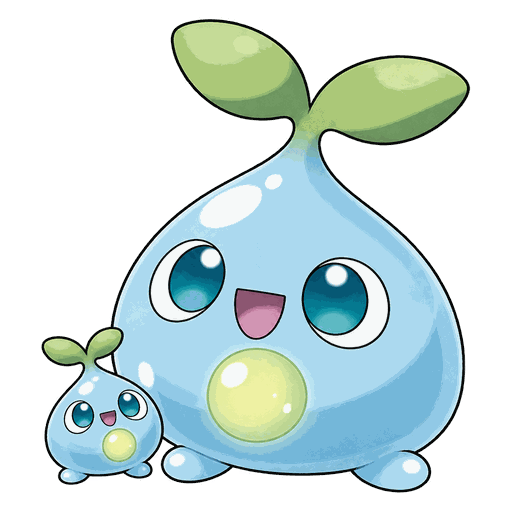
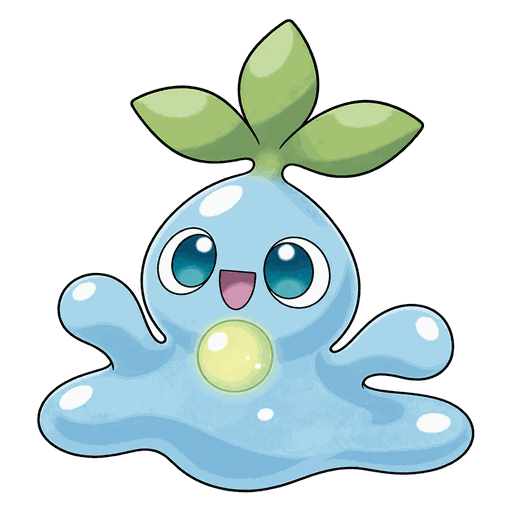
아레나 로비를 골드버전 창 구조로(상태창·소환수창·▶ 세로 메뉴), 이모지 아이콘 전부 글자 배지로, 그림자와 이름 분리. 슬라임 2·3, 늑대 2·3, 천사 3단계 교체. 시작화면 23종족

diff --git a/battle.html b/battle.html
@@ -449,51 +449,52 @@ button{font-family:inherit;cursor:pointer}
 .fl{z-index:9}
 @media (min-width:600px){.esprite{width:30%;right:8%}.msprite{width:34%;left:8%}.ebox{width:40%}.mbox{width:42%}}
 
+@font-face{font-family:"DungGeunMo";src:url("https://cdn.jsdelivr.net/gh/projectnoonnu/noonfonts_six@1.2/DungGeunMo.woff") format("woff");font-display:swap}
 /* ===== 골드 버전 스킨: 크림 배경, 두 줄 검은 테두리 창, 픽셀 글꼴, ▶ 커서 ===== */
 :root{--G-bg:#f8f6e6;--G-ink:#202020;--G-ink2:#585858;--G-line:#202020;--G-hp:#48c848;--G-hp2:#f8d048;--G-hp3:#f04838;--G-tg:#3870f0;--G-sel:#fff2a8}
 html,body{background:var(--G-bg)}
-body{font-family:"Apple SD Gothic Neo","Pretendard","Noto Sans KR",system-ui,sans-serif;color:var(--G-ink);-webkit-font-smoothing:antialiased;font-weight:700}
+body{font-family:"DungGeunMo","Apple SD Gothic Neo",sans-serif;color:var(--G-ink);-webkit-font-smoothing:antialiased;font-weight:400;font-size:16px}
 .scene,.scene::before{background:none!important}
 .bg-lobby,.bg-arena,.bg-dungeon{background:var(--G-bg)!important}
 #lobby,#fight{background:var(--G-bg)}
 .win,.frame,.vsbox,.roster,.ebox,.mbox,.tbox,.menu button,.gb,.tab,.bbar .ib,.chip,.ltabs button,.rw,.pt,.tip,.result .frame,.ctl button,.modes button,.detail .frame,.sk{border-radius:0!important;box-shadow:none!important;backdrop-filter:none!important;text-shadow:none!important}
 .gsc-win{background:#fff;border:3px solid var(--G-line);outline:2px solid #fff;outline-offset:-7px;box-shadow:inset 0 0 0 2px #fff,inset 0 0 0 4px var(--G-line)!important}
-/* 로비 */
-.hud{padding:8px 8px 0;flex-direction:column;gap:6px;align-items:stretch}
-.tabs{gap:6px}
-.tab{flex:1;height:auto;padding:8px 0;border:3px solid var(--G-line);background:#fff;color:var(--G-ink);font-size:16px;justify-content:center;font-weight:400}
-.tab.on{background:var(--G-ink);color:#fff;border-color:var(--G-ink)}
-.me{text-align:left;background:#fff;border:3px solid var(--G-line);padding:8px 10px;font-size:14px;color:var(--G-ink);display:flex;justify-content:space-between;align-items:center;flex-wrap:wrap;gap:4px 12px}
-.me b{color:var(--G-ink);font-size:16px;font-weight:400}
-.me .ro{gap:8px;font-weight:400}
-.timer{position:absolute;left:8px;right:8px;top:124px;text-align:center;font-size:13px;color:var(--G-ink2);text-shadow:none;background:none}
-.stage{bottom:auto;top:150px;height:200px;left:8px;right:8px;background:#fff;border:3px solid var(--G-line);padding:10px 6% 28px;align-items:flex-end;justify-content:center;gap:4%;margin:0}
-.stage::after{content:"";position:absolute;left:8%;right:8%;bottom:14px;height:14px;border-radius:50%;background:#d8d4c0;z-index:0}
-.stage .u{z-index:1;width:30%;max-width:160px}
-.stage .u:only-of-type{width:46%}
+/* 로비: 골드버전식 창 세 개로 화면을 채움 */
+#lobby{background:var(--G-bg) repeating-linear-gradient(0deg,transparent 0 7px,rgba(0,0,0,.035) 7px 8px),repeating-linear-gradient(90deg,transparent 0 7px,rgba(0,0,0,.035) 7px 8px)!important;display:flex;flex-direction:column;gap:8px;padding:8px;padding-top:max(8px,env(safe-area-inset-top));padding-bottom:max(8px,env(safe-area-inset-bottom))}
+.gwin{background:#fff;border:4px solid var(--G-line);box-shadow:inset 0 0 0 2px #fff,inset 0 0 0 4px var(--G-line)!important;border-radius:4px!important}
+.hud{position:static;padding:0;flex-direction:column;gap:8px;align-items:stretch;flex:none}
+.tabs{gap:8px}
+.tab{flex:1;height:auto;padding:10px 0;border:4px solid var(--G-line);background:#fff;color:var(--G-ink);font-size:18px;justify-content:center;font-weight:400;border-radius:4px!important;box-shadow:inset 0 0 0 2px #fff,inset 0 0 0 4px var(--G-line)!important}
+.tab.on{background:var(--G-ink);color:#fff;box-shadow:inset 0 0 0 2px var(--G-ink),inset 0 0 0 4px #fff!important}
+.me{text-align:left;background:#fff;border:4px solid var(--G-line);box-shadow:inset 0 0 0 2px #fff,inset 0 0 0 4px var(--G-line)!important;border-radius:4px!important;padding:12px 14px;font-size:16px;color:var(--G-ink);display:grid;grid-template-columns:1fr auto;gap:6px 12px;line-height:1.3}
+.me b{color:var(--G-ink);font-size:18px;font-weight:400;grid-row:1/3}
+.me .ro{gap:14px;font-weight:400;justify-content:flex-end}
+.timer{position:static;text-align:center;font-size:15px;color:var(--G-ink2);text-shadow:none;background:none;flex:none;padding:0}
+.stage{position:relative;top:auto;bottom:auto;left:auto;right:auto;height:auto;flex:1;min-height:200px;background:#fff;border:4px solid var(--G-line);box-shadow:inset 0 0 0 2px #fff,inset 0 0 0 4px var(--G-line)!important;border-radius:4px!important;padding:14px 6% 56px;align-items:flex-end;justify-content:center;gap:4%;margin:0}
+.stage::after{content:"";position:absolute;left:8%;right:8%;bottom:46px;height:16px;border-radius:50%;background:#d8d4c0;z-index:0}
+.stage .u{z-index:1;width:30%;max-width:170px}
+.stage .u:only-of-type{width:48%}
 .stage .u img,.stage .u svg{filter:none}
-.stage .u .nm{color:var(--G-ink);text-shadow:none;font-weight:400;font-size:13px;bottom:-22px}
-.stage .u.empty{border:2px dashed #b8b4a0;color:#888;border-radius:0}
-.stage .lead{background:var(--G-ink);color:#fff;border:none;font-weight:400;letter-spacing:0;left:50%;transform:translateX(-50%);bottom:-6px;padding:2px 10px;font-size:12px}
-.sidebtn{position:absolute;left:8px;right:8px;top:372px;bottom:auto;width:auto;max-width:none;flex-direction:row;gap:6px}
-.sidebtn .gb,.gb,.gb.orange,.gb.green,.gb.wood,.gb:not(.wood):not(.green),#start,#cancel,#r_ok,#r_next,.rw .gb{background:#fff;color:var(--G-ink);border:3px solid var(--G-line);font-weight:400;font-size:17px;padding:12px 8px}
-.sidebtn .gb{flex:1;font-size:18px;padding:14px 6px}
-.gb.orange,#start,#r_ok,#r_next,.rw .gb{background:var(--G-ink);color:#fff}
-.gb:active{transform:none;background:var(--G-sel);color:var(--G-ink)}
-.gb .badge{background:var(--G-ink);border:2px solid #fff;font-family:inherit}
-.bbar{left:8px;right:8px;bottom:8px;padding:0;gap:6px;justify-content:space-between}
-.bbar .ib,.bbar .ib.back{flex:1;height:60px;background:#fff;border:3px solid var(--G-line);color:var(--G-ink);font-weight:400;font-size:13px}
-.bbar .ib i{font-size:20px}
+.stage .u .nm{color:var(--G-ink);text-shadow:none;font-weight:400;font-size:15px;bottom:-34px}
+.stage .u.empty{border:2px dashed #b8b4a0;color:#888;border-radius:0;font-size:15px}
+.stage .lead{background:var(--G-ink);color:#fff;border:none;font-weight:400;letter-spacing:0;left:auto;right:10px;top:10px;bottom:auto;transform:none;padding:3px 12px;font-size:14px;border-radius:0}
+.gmenu{flex:none;background:#fff;border:4px solid var(--G-line);box-shadow:inset 0 0 0 2px #fff,inset 0 0 0 4px var(--G-line)!important;border-radius:4px!important;padding:10px 8px;display:grid;grid-template-columns:1fr 1fr;gap:4px 8px}
+.gmenu .gb,.gmenu .ib{position:relative;display:flex;align-items:center;justify-content:flex-start;background:none!important;border:none!important;color:var(--G-ink)!important;font-size:20px;font-weight:400;padding:10px 10px 10px 30px;text-decoration:none;text-align:left;box-shadow:none!important;height:auto;width:auto;line-height:1.2}
+.gmenu .gb::before,.gmenu .ib::before{content:"▶";position:absolute;left:8px;top:50%;transform:translateY(-50%);opacity:0;font-size:16px}
+.gmenu .gb:active,.gmenu .ib:active{background:var(--G-sel)!important}
+.gmenu .gb:active::before,.gmenu .ib:active::before,.gmenu #btn_go::before{opacity:1}
+.gmenu .gb .badge{position:static;margin-left:8px;background:var(--G-ink);color:#fff;border:none;font-size:13px;min-width:22px;height:22px;border-radius:0}
+.sidebtn,.bbar{display:none}
 /* 창(모달) */
 .modal{background:rgba(32,32,32,.35);padding:8px;align-items:stretch}
 .frame,.modal .frame,.detail .frame,.result .frame{background:#fff;border:3px solid var(--G-line);outline:none;color:var(--G-ink);max-width:none;height:100%;border-radius:0}
 .frame .ttl{color:var(--G-ink);font-weight:400;font-size:18px;padding:12px 14px 0}
 .frame .x{background:#fff;border:3px solid var(--G-line);color:var(--G-ink);width:36px;height:36px;font-size:16px;top:8px;right:8px}
 .ltabs{flex-direction:row;gap:4px}
-.ltabs button{flex:1;background:#fff;border:3px solid var(--G-line);color:var(--G-ink);font-weight:400;font-size:14px;padding:8px 2px;text-align:center}
+.ltabs button{flex:1;background:#fff;border:3px solid var(--G-line);color:var(--G-ink);font-weight:400;font-size:15px;padding:9px 2px;text-align:center}
 .ltabs button.on{background:var(--G-ink);color:#fff}
 .ltabs .badge{background:var(--G-ink);border:2px solid #fff;top:-6px;right:-4px}
-.lhead .chip{background:#fff;border:3px solid var(--G-line);color:var(--G-ink);font-weight:400;font-size:13px;padding:6px 10px;white-space:nowrap;width:auto}
+.lhead .chip{background:#fff;border:3px solid var(--G-line);color:var(--G-ink);font-weight:400;font-size:15px;padding:6px 10px;white-space:nowrap;width:auto}
 .chip.btn:not(:disabled){background:var(--G-ink);color:#fff;border-color:var(--G-ink)}
 .chip.btn:disabled{background:#fff;color:#999;border-color:#999}
 .rows{gap:6px}
@@ -503,27 +504,27 @@ body{font-family:"Apple SD Gothic Neo","Pretendard","Noto Sans KR",system-ui,san
 .rw .av .st{background:var(--G-ink);color:#fff;border:none;border-radius:0;font-family:inherit;font-weight:400}
 .rw .inf b{font-weight:400;font-size:16px}
 .rw .inf b::before{content:"▶ ";color:var(--G-ink)}
-.rw .inf small,.rw .pw small,.rw .rec{color:var(--G-ink2);font-weight:400}
+.rw .inf small,.rw .pw small,.rw .rec{color:var(--G-ink2);font-weight:400;font-size:14px}
 .rw .pw{font-weight:400;font-size:15px}
 .rw .gb{padding:10px 10px;font-size:14px;min-width:70px}
 .rw .won{background:#fff;border:3px solid #a8a498;color:#888;font-weight:400;font-size:14px;border-radius:0}
 /* 대전 준비 */
 .setup{background:var(--G-bg);color:var(--G-ink);padding:8px;gap:8px}
-.setup .top{color:var(--G-ink2);font-size:14px}.setup .top b{color:var(--G-ink);font-weight:400;font-size:18px}
+.setup .top{color:var(--G-ink2);font-size:15px}.setup .top b{color:var(--G-ink);font-weight:400;font-size:18px}
 .vsbox,.roster{background:#fff;border:3px solid var(--G-line)}
 .vsbox{padding:10px}
 .vsbox .vs{color:var(--G-ink);font-size:16px;opacity:1}
-.vsbox .side .lab,.vsbox .side .lab.me,.vsbox .side .lab.op{color:var(--G-ink);font-weight:400;font-size:13px}
+.vsbox .side .lab,.vsbox .side .lab.me,.vsbox .side .lab.op{color:var(--G-ink);font-weight:400;font-size:15px}
 .pt,.pt.op,.roster .pt{background:var(--G-bg);border:3px solid var(--G-line)}
 .pt.empty{background:#fff;border:2px dashed #b8b4a0;color:#999}
-.pt .stars{color:#fff;background:var(--G-ink);font-size:9px;text-shadow:none;letter-spacing:0;left:0;top:0;padding:1px 4px;z-index:1}
-.pt .st{color:#fff;background:var(--G-ink);text-shadow:none;padding:0 4px;right:0;bottom:0;font-size:11px;font-weight:400}
+.pt .stars{color:#fff;background:var(--G-ink);font-size:12px;text-shadow:none;letter-spacing:0;left:0;top:0;padding:1px 4px;z-index:1}
+.pt .st{color:#fff;background:var(--G-ink);text-shadow:none;padding:0 5px;right:0;bottom:0;font-size:13px;font-weight:400}
 .pt .ld{background:var(--G-ink);color:#fff;font-weight:400}
-.pt .el{border-radius:0;background:#fff;border:2px solid var(--G-line)}
+.pt .el{border-radius:0;background:#fff;border:2px solid var(--G-line);width:auto;height:auto;padding:0 4px;font-size:12px;left:0;bottom:0}
 .roster .pt.on{border-color:var(--G-ink);background:var(--G-sel)}
 .roster .pt.on::after{content:"▶";font-size:22px;color:var(--G-ink);background:none;align-items:flex-start;justify-content:flex-start;padding:2px 4px}
 .roster .pt .i{background:var(--G-ink);border:none;border-radius:0;font-family:inherit}
-.modes button{background:#fff;border:3px solid var(--G-line);color:var(--G-ink2);font-weight:400;font-size:13px}
+.modes button{background:#fff;border:3px solid var(--G-line);color:var(--G-ink2);font-weight:400;font-size:15px}
 .modes button.on{background:var(--G-ink);color:#fff}
 .setup .acts .gb{font-size:17px;padding:14px 8px}
 /* 상세·팁 */
@@ -536,7 +537,7 @@ body{font-family:"Apple SD Gothic Neo","Pretendard","Noto Sans KR",system-ui,san
 .sk.fire,.sk.water,.sk.earth,.sk.wind,.sk.light,.sk.dark{border-width:3px;border-color:var(--G-line);background:#fff}
 .sk.on{box-shadow:none!important;background:var(--G-sel)}
 .sk .t{color:var(--G-ink);opacity:1;font-weight:400}
-.tip{background:#fff;color:var(--G-ink);border:3px solid var(--G-line);font-size:14px;line-height:1.6}
+.tip{background:#fff;color:var(--G-ink);border:3px solid var(--G-line);font-size:15px;line-height:1.6}
 .tip b{color:var(--G-ink);font-weight:400;font-size:16px;text-align:left}
 .tip .cd{color:var(--G-ink2)}
 /* 전투 */
@@ -549,13 +550,13 @@ body{font-family:"Apple SD Gothic Neo","Pretendard","Noto Sans KR",system-ui,san
 .ebox{left:8px;top:10px;width:58%}
 .mbox{right:8px;bottom:10px;width:64%}
 .ebox b,.mbox b{font-weight:400;font-size:17px;color:var(--G-ink)}
-.ebox span,.mbox span{font-weight:700;font-size:12px;color:var(--G-ink2)}
-.hpbar,.gauge{position:relative;height:10px;border:2px solid var(--G-line);border-radius:0;background:#fff;margin-top:8px;margin-left:38px;overflow:visible}
-.hpbar em,.gauge em{position:absolute;left:-36px;top:-5px;font-style:normal;font-size:11px;font-weight:800;color:var(--G-ink);width:32px;text-align:right;line-height:1}
+.ebox span,.mbox span{font-weight:400;font-size:14px;color:var(--G-ink2)}
+.hpbar,.gauge{position:relative;height:10px;border:2px solid var(--G-line);border-radius:0;background:#fff;margin-top:8px;margin-left:42px;overflow:visible}
+.hpbar em,.gauge em{position:absolute;left:-40px;top:-5px;font-style:normal;font-size:14px;font-weight:400;color:var(--G-ink);width:36px;text-align:right;line-height:1}
 .hpbar i{background:var(--G-hp);transition:width .3s}.hpbar i.mid{background:var(--G-hp2)}.hpbar i.low{background:var(--G-hp3)}
 .gauge{height:7px;margin-top:8px}.gauge i{display:block;height:100%;width:0;background:var(--G-tg);transition:width .18s}
-.mbox .hpn{color:var(--G-ink);font-weight:400;font-size:13px;margin-top:2px}
-.ebox .effs span,.mbox .effs span,.ebox .effs span.good,.mbox .effs span.good{border-radius:0;background:#fff;border:2px solid var(--G-line);color:var(--G-ink);font-weight:400;font-size:10px;padding:0 4px}
+.mbox .hpn{color:var(--G-ink);font-weight:400;font-size:14px;margin-top:2px}
+.ebox .effs span,.mbox .effs span,.ebox .effs span.good,.mbox .effs span.good{border-radius:0;background:#fff;border:2px solid var(--G-line);color:var(--G-ink);font-weight:400;font-size:13px;padding:0 5px}
 .eteam{left:8px;top:calc(10px + 96px)}
 .mteam{right:8px;bottom:calc(8px + 120px)}
 .chip{width:44px;border:3px solid var(--G-line);background:#fff;padding:1px;border-radius:0}
@@ -563,7 +564,7 @@ body{font-family:"Apple SD Gothic Neo","Pretendard","Noto Sans KR",system-ui,san
 .chip .tg{height:3px;margin-bottom:1px}.chip .tg i{display:block;height:100%;background:var(--G-tg)}
 .chip .hp i{background:var(--G-hp)}.chip .hp i.mid{background:var(--G-hp2)}.chip .hp i.low{background:var(--G-hp3)}
 .chip.on{box-shadow:none!important;background:var(--G-sel)}
-.chip .arrow{color:var(--G-ink);font-size:14px;top:-18px}
+.chip .arrow{color:var(--G-ink);font-size:16px;top:-20px}
 .tbox{height:auto;min-height:150px;background:#fff;border-top:none;margin:0 6px 6px;border:4px double var(--G-line);outline:3px solid var(--G-line);outline-offset:-3px;padding:14px 16px}
 .tbox:has(.menu:not(.hidden)) .msg{display:none}
 .tbox:has(.menu:not(.hidden)) .msg::after{display:none}
@@ -576,15 +577,15 @@ body{font-family:"Apple SD Gothic Neo","Pretendard","Noto Sans KR",system-ui,san
 .menu button::before{content:"▶ ";opacity:0}
 .menu button.pri{background:#fff;color:var(--G-ink)}.menu button.pri::before{opacity:1}
 .menu button:active{background:var(--G-sel)}
-.menu button small{font-weight:700;color:var(--G-ink2);font-size:12px}.menu button.pri small{color:var(--G-ink2)}
+.menu button small{font-weight:400;color:var(--G-ink2);font-size:14px}.menu button.pri small{color:var(--G-ink2)}
 .menu button small .el{border-radius:0;background:#fff;border:1px solid var(--G-line);color:var(--G-ink)}
 .menu button.back{border-style:solid;font-size:14px}
-.gsc .ctl button{border:3px solid var(--G-line);border-radius:0;background:#fff;color:var(--G-ink);font-weight:400;font-size:12px;width:42px;height:34px}
+.gsc .ctl button{border:3px solid var(--G-line);border-radius:0;background:#fff;color:var(--G-ink);font-weight:400;font-size:14px;width:46px;height:36px}
 .gsc .ctl button.on{background:var(--G-ink);color:#fff}
 .fl{font-family:inherit;font-weight:400;font-size:26px;color:#d02818;text-shadow:2px 2px 0 #fff,-2px -2px 0 #fff,2px -2px 0 #fff,-2px 2px 0 #fff}
 .fl.heal{color:#288828;text-shadow:2px 2px 0 #fff,-2px -2px 0 #fff,2px -2px 0 #fff,-2px 2px 0 #fff}
 .fl.miss{color:var(--G-ink2);font-size:18px}.fl.eff{color:var(--G-ink);font-size:14px}
-.log{background:#fff;border:3px solid var(--G-line);color:var(--G-ink);border-radius:0;top:118px;font-size:12px}
+.log{background:#fff;border:3px solid var(--G-line);color:var(--G-ink);border-radius:0;top:118px;font-size:14px}
 .log .l b{color:var(--G-ink)}.log .dmg{color:#d02818}.log .heal{color:#288828}.log .r{color:var(--G-ink2)}
 /* 결과 */
 .result{background:rgba(32,32,32,.35)}
@@ -603,20 +604,18 @@ body{font-family:"Apple SD Gothic Neo","Pretendard","Noto Sans KR",system-ui,san
 <!-- 로비 -->
 <div id="lobby" class="scene bg-lobby">
   <div class="hud">
-    <div class="tabs"><a class="tab" id="tab_a" href="battle.html">⚔ 아레나</a><a class="tab" id="tab_d" href="battle.html?mode=dungeon">🏰 던전</a></div>
-    <div class="me"><b id="me_nick">소환사</b><div class="ro"><span>⚔ <span id="me_pw">0</span></span><span>🏆 <span id="me_win">0</span></span></div><div class="ro" id="atk_row"><span>입장권 <span id="atk_n">10</span>/10</span><span id="atk_t" style="font-weight:600;opacity:.75"></span></div></div>
+    <div class="tabs"><a class="tab" id="tab_a" href="battle.html">아레나</a><a class="tab" id="tab_d" href="battle.html?mode=dungeon">던전</a></div>
+    <div class="me"><b id="me_nick">소환사</b><div class="ro"><span>전투력 <span id="me_pw">0</span></span><span>승리 <span id="me_win">0</span></span></div><div class="ro" id="atk_row"><span>입장권 <span id="atk_n">10</span>/10</span><span id="atk_t" style="font-weight:600;opacity:.75"></span></div></div>
   </div>
   <div class="timer" id="lobby_timer"></div>
   <div class="stage" id="stage"></div>
-  <div class="sidebtn">
+  <div class="gmenu">
     <button class="gb orange" id="btn_go">대전하기</button>
     <button class="gb green" id="btn_rival">라이벌<span class="badge" id="rival_n">0</span></button>
-  </div>
-  <div class="bbar">
-    <button class="ib" id="bb_def"><i>🛡</i>방어</button>
-    <button class="ib" id="bb_rec"><i>📜</i>전투기록</button>
-    <button class="ib" id="bb_info"><i>🏆</i>정보</button>
-    <a class="ib back" href="index.html"><i>↩</i>뒤로가기</a>
+    <button class="ib" id="bb_def">방어덱</button>
+    <button class="ib" id="bb_rec">전투 기록</button>
+    <button class="ib" id="bb_info">정보</button>
+    <a class="ib back" href="index.html">나가기</a>
   </div>
 </div>
 
@@ -682,7 +681,7 @@ body{font-family:"Apple SD Gothic Neo","Pretendard","Noto Sans KR",system-ui,san
       <div class="msprite" id="m_sp"></div>
       <div class="mteam" id="m_team"></div>
       <div class="mbox" id="mbox"><div class="nm"><b id="m_nm"></b><span id="m_lv"></span></div><div class="hpbar"><em>HP</em><i id="m_hp"></i></div><div class="hpn" id="m_hpn"></div><div class="gauge"><em>행동</em><i id="m_tg"></i></div><div class="effs" id="m_eff"></div></div>
-      <div class="ctl"><button id="c_log">📜</button><button id="c_spd">×1</button><button id="c_auto">자동</button></div>
+      <div class="ctl"><button id="c_log">기록</button><button id="c_spd">×1</button><button id="c_auto">자동</button></div>
     </div>
     <div class="tbox"><div class="msg" id="cap"></div><div class="menu hidden" id="menu"></div></div>
   </div>
@@ -865,7 +864,7 @@ function askPlayer(att,enemies){
    menu.className="menu";
    const cell=(k,name,sub,ok)=>`<button data-k="${k}" class="${ok?"":"cd"}"><span>${name}</span><small>${sub}</small></button>`;
    menu.innerHTML=cell("basic","일반공격",`<span class="el">물리</span>데미지 ${dmgOf(null)}`,true)+
-    ready.map(({s,ok},i)=>cell("s"+i,s.n,`<span class="el">${s.e&&ELEM[s.e]?ELEM[s.e].ic+ELEM[s.e].n:EFF[s.e]?EFF[s.e][0]:skillKind(s.t)}</span>${ok?(s.t==="hit"?"데미지 "+dmgOf(s):skillKind(s.t)):"쿨타임 "+s.cd+"턴"}`,ok)).join("")+
+    ready.map(({s,ok},i)=>cell("s"+i,s.n,`<span class="el">${s.e&&ELEM[s.e]?ELEM[s.e].n:EFF[s.e]?EFF[s.e][0]:skillKind(s.t)}</span>${ok?(s.t==="hit"?"데미지 "+dmgOf(s):skillKind(s.t)):"쿨타임 "+s.cd+"턴"}`,ok)).join("")+
     `<button class="back" data-k="back">◀ 뒤로</button>`;
    menu.querySelectorAll("button").forEach(b=>{const k=b.dataset.k; let t;
     if(k==="back"){b.onclick=main;return}
@@ -883,7 +882,7 @@ function askPlayer(att,enemies){
   };
   const targets=()=>{
    menu.className="menu list";
-   menu.innerHTML=alive(enemies).map(e=>`<button data-i="${ALL.indexOf(e)}" class="${e===TARGET?"pri":""}"><span>${e.name}</span><small>${ELEM[e.elem].ic}${ELEM[e.elem].n} · ${POW[e.pow][1]} · 체력 ${e.hp}/${e.maxhp}${(traitAdv(att,e)+elemAdv(att.elem,e.elem))?` · 상성 ${(traitAdv(att,e)+elemAdv(att.elem,e.elem))>0?"+":""}${traitAdv(att,e)+elemAdv(att.elem,e.elem)}%`:""}</small></button>`).join("")+`<button class="back" data-k="back">◀ 뒤로</button>`;
+   menu.innerHTML=alive(enemies).map(e=>`<button data-i="${ALL.indexOf(e)}" class="${e===TARGET?"pri":""}"><span>${e.name}</span><small>${ELEM[e.elem].n} · ${POW[e.pow][1]} · 체력 ${e.hp}/${e.maxhp}${(traitAdv(att,e)+elemAdv(att.elem,e.elem))?` · 상성 ${(traitAdv(att,e)+elemAdv(att.elem,e.elem))>0?"+":""}${traitAdv(att,e)+elemAdv(att.elem,e.elem)}%`:""}</small></button>`).join("")+`<button class="back" data-k="back">◀ 뒤로</button>`;
    menu.querySelectorAll("button").forEach(b=>b.onclick=()=>{if(b.dataset.k==="back")return main();TARGET=ALL[+b.dataset.i];FOCUS.b=TARGET;markTargets(enemies);refresh();main()});
   };
   main();
@@ -934,7 +933,7 @@ function refresh(){
   const f=FOCUS[side]; if(!f)continue;
   const sp=$(side==="a"?"m_sp":"e_sp"), box=side==="a"?"m":"e";
   if(SHOWN[side]!==f){sp.innerHTML=`<div>${artWithImage(f.race,f.stage,f.elem)}</div>`;SHOWN[side]=f}
-  $(box+"_nm").textContent=f.name; $(box+"_lv").textContent=`${f.stage}단계 ${ELEM[f.elem].ic}${f.nick?" · "+f.nick:""}`;
+  $(box+"_nm").textContent=f.name; $(box+"_lv").textContent=`${f.stage}단계 · ${ELEM[f.elem].n}${f.nick?" · "+f.nick:""}`;
   const bar=$(box+"_hp"); bar.style.width=Math.max(0,f.hp/f.maxhp*100)+"%"; bar.className=hpClass(f); $(box+"_tg").style.width=Math.min(100,f.gauge/TURN*100)+"%";
   if(side==="a")$("m_hpn").textContent=`${f.hp} / ${f.maxhp}`;
   $(box+"_eff").innerHTML=effHTML(f);
@@ -1010,7 +1009,7 @@ function openList(tab){LTAB=tab||"match";$("list").classList.remove("hidden");$(
 function rowHTML(o){
  const first=o.d[0]; const d=decode(first[0]); const R=judge(d.b,d.a);
  const beat=listState().beat.includes(o.key);
- return `<div class="rw ${beat?"beat":""}"><div class="av">${artWithImage(R.race,first[1],R.elem)}<span class="st">${first[1]}</span></div><div class="inf"><b>${o.n||"소환사"}</b><small>방어덱 ${o.d.length}마리${o.bot?"":" · 친구"}</small></div><div class="pw"><small>⚔</small>${deckPower(o.d)}</div>${beat&&o.bot?`<div class="won">승리</div>`:`<button class="gb" data-k="${o.key}">${beat?"재도전":"전투"}</button>`}</div>`;
+ return `<div class="rw ${beat?"beat":""}"><div class="av">${artWithImage(R.race,first[1],R.elem)}<span class="st">${first[1]}</span></div><div class="inf"><b>${o.n||"소환사"}</b><small>방어덱 ${o.d.length}마리${o.bot?"":" · 친구"}</small></div><div class="pw"><small>전투력</small>${deckPower(o.d)}</div>${beat&&o.bot?`<div class="won">승리</div>`:`<button class="gb" data-k="${o.key}">${beat?"재도전":"전투"}</button>`}</div>`;
 }
 let LIST_TIMER=null;
 function drawRows(){
@@ -1030,9 +1029,9 @@ function drawRows(){
   if(LTAB==="match"){const tick=()=>{const left=REFRESH_MS-(Date.now()-listState().t);const b=$("refresh");if(left<=0){b.disabled=false;b.textContent="리스트 갱신"}else{b.disabled=true;b.textContent="갱신 "+fmtT(left)}};tick();LIST_TIMER=setInterval(tick,1000)}
  }else if(LTAB==="rec"){
   const L=rec().log||[];
-  box.innerHTML=L.map(r=>`<div class="rw ${r.w?"":"beat"}"><div class="av" style="display:flex;align-items:center;justify-content:center;font-size:26px">${r.w?"🏆":"💀"}</div><div class="inf"><b>${r.o}</b><small>${r.a} vs ${r.b}</small></div><div class="rec">${new Date(r.t).toLocaleDateString("ko-KR",{month:"numeric",day:"numeric"})}<br>${new Date(r.t).toLocaleTimeString("ko-KR",{hour:"2-digit",minute:"2-digit"})}</div><div class="won">${r.w?"승리":"패배"}</div></div>`).join("")||`<p style="color:var(--ink2);text-align:center;padding:30px 10px">아직 전투 기록이 없어요.</p>`;
+  box.innerHTML=L.map(r=>`<div class="rw ${r.w?"":"beat"}"><div class="av" style="display:flex;align-items:center;justify-content:center;font-size:16px">${r.w?"승":"패"}</div><div class="inf"><b>${r.o}</b><small>${r.a} vs ${r.b}</small></div><div class="rec">${new Date(r.t).toLocaleDateString("ko-KR",{month:"numeric",day:"numeric"})}<br>${new Date(r.t).toLocaleTimeString("ko-KR",{hour:"2-digit",minute:"2-digit"})}</div><div class="won">${r.w?"승리":"패배"}</div></div>`).join("")||`<p style="color:var(--ink2);text-align:center;padding:30px 10px">아직 전투 기록이 없어요.</p>`;
  }else{
-  box.innerHTML=`<div class="rw"><div class="av" style="display:flex;align-items:center;justify-content:center;font-size:26px">🏆</div><div class="inf"><b>${myNick()}</b><small>${GAME==="dungeon"?"최고 "+(rec().dungeon||0)+"층":(rec().wins||0)+"승 "+(rec().losses||0)+"패"}</small></div><div class="rec">다른 소환사 순위는<br>서버가 열리면 보여요</div></div>`;
+  box.innerHTML=`<div class="rw"><div class="av" style="display:flex;align-items:center;justify-content:center;font-size:16px">나</div><div class="inf"><b>${myNick()}</b><small>${GAME==="dungeon"?"최고 "+(rec().dungeon||0)+"층":(rec().wins||0)+"승 "+(rec().losses||0)+"패"}</small></div><div class="rec">다른 소환사 순위는<br>서버가 열리면 보여요</div></div>`;
  }
 }
 function openDeck(o){ // 상대 방어덱 전체 보기
@@ -1046,10 +1045,10 @@ function openSetup(){
  if(!PARTY.length){const c=col();if(c.length)PARTY=[c[c.length-1]]}
  drawSetup(); drawAtk();
 }
-function ptHTML(c,st,cls,extra){const d=decode(c);const R=judge(d.b,d.a);return `<div class="pt ${cls||""}" data-c="${c}" data-s="${st}"><span class="stars">전투력 ${power(stageStats(R.base,R.race,st-1))}</span>${artWithImage(R.race,st,R.elem)}<span class="el">${ELEM[R.elem].ic}</span><span class="st">${st}</span>${extra||""}</div>`}
+function ptHTML(c,st,cls,extra){const d=decode(c);const R=judge(d.b,d.a);return `<div class="pt ${cls||""}" data-c="${c}" data-s="${st}"><span class="stars">전투력 ${power(stageStats(R.base,R.race,st-1))}</span>${artWithImage(R.race,st,R.elem)}<span class="el">${ELEM[R.elem].n}</span><span class="st">${st}단계</span>${extra||""}</div>`}
 function drawSetup(){
  $("my_tri").innerHTML=Array.from({length:3},(_,i)=>PARTY[i]?ptHTML(PARTY[i],getStage(PARTY[i]),"",i===0?`<span class="ld">LEADER</span>`:""):`<div class="pt empty">+</div>`).join("");
- $("op_tri").innerHTML=GAME==="dungeon"?Array.from({length:3},(_,i)=>i<floorEnemyCount(FLOOR)?`<div class="pt empty op" style="font-size:22px">👹</div>`:`<div class="pt empty">·</div>`).join():Array.from({length:3},(_,i)=>OPPO.d[i]?ptHTML(OPPO.d[i][0],OPPO.d[i][1],"op"):`<div class="pt empty">💀</div>`).join("");
+ $("op_tri").innerHTML=GAME==="dungeon"?Array.from({length:3},(_,i)=>i<floorEnemyCount(FLOOR)?`<div class="pt empty op" style="font-size:14px">몬스터</div>`:`<div class="pt empty">·</div>`).join():Array.from({length:3},(_,i)=>OPPO.d[i]?ptHTML(OPPO.d[i][0],OPPO.d[i][1],"op"):`<div class="pt empty">-</div>`).join("");
  $("roster").innerHTML=col().map(c=>ptHTML(c,getStage(c),PARTY.includes(c)?"on":"",`<span class="i">i</span>`)).join("")||`<p style="color:var(--ink2);grid-column:1/-1;text-align:center">아직 소환수가 없어요. <a href="index.html" style="color:var(--gold)">먼저 소환해 주세요.</a></p>`;
  $("roster").querySelectorAll(".pt").forEach(el=>{
   el.querySelector(".i").onclick=(ev)=>{ev.stopPropagation();openDetail(el.dataset.c,+el.dataset.s)};
@@ -1062,7 +1061,7 @@ function drawSetup(){
 function openDetail(c,st){
  const d=decode(c); const R=judge(d.b,d.a); const f=makeFighter({d,h:c},st,"x",0);
  $("d_ttl").innerHTML=`${nameOf(R,st)} <b>${st}단계</b>`;
- $("d_art").innerHTML=`<div class="stars">전투력 ${power(f.st)}</div>${artWithImage(R.race,st,R.elem)}<div class="ty">${ELEM[R.elem].ic}${ELEM[R.elem].n} · ${POW[R.pow][1]}${d.nick?" · "+d.nick:""}</div>`;
+ $("d_art").innerHTML=`<div class="stars">전투력 ${power(f.st)}</div>${artWithImage(R.race,st,R.elem)}<div class="ty">${ELEM[R.elem].n} · ${POW[R.pow][1]}${d.nick?" · "+d.nick:""}</div>`;
  const stt=f.st;
  $("d_st").innerHTML=`<span style="color:var(--ink3)">전투력</span><span>${power(stt)}</span>`+STN.map((n,i)=>`<span style="color:var(--ink2)">${n}</span><span>${i===0?stt[0]*10:stt[i]}</span>`).join("")+`<span style="color:var(--ink2)">속도</span><span>${speed(f)}</span>`;
  const dmgOf=(s)=>showDmg(MAGICAL.has(R.pow)&&s?stt[2]:stt[1],s?s.m:f.basic);

diff --git a/index.html b/index.html
@@ -674,7 +674,7 @@ body.rare{background:#15141c}
   </div>
   <div class="tbot">
     <p class="tsub">생일과 질문 6개면 끝!<br><b>나와 운명으로 이어진 이세계 파트너</b>는 누굴까요?</p>
-    <div class="tinfo"><span>⏱ 1분</span><span>질문 6개</span><span>24종족</span></div>
+    <div class="tinfo"><span>⏱ 1분</span><span>질문 6개</span><span>23종족</span></div>
     <button class="btn gold tgo" id="openform">테스트 시작하기</button>
     <button class="btn ghost tgo" id="continue" hidden>내 소환수 보러 가기</button>
   </div>
